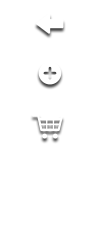
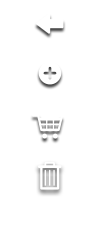
integrated product delete

Changed region(s): [[0.36, 0.6708, 0.63, 0.8167]]

diff --git a/www/style.less b/www/style.less
@@ -111,13 +111,23 @@ hr {
 }
 
 /*----------------------------------------------------------------
-	Views
+	Views / Shared
 ----------------------------------------------------------------*/
 
 .wrap {
 	padding: @margin @margin @margin*2;
 }
 
+.icon {
+	width: 30px;
+	height: 30px;
+	position: absolute;
+	left: 50%;
+	top: 50%;
+	margin-left: -15px;
+	margin-top: -15px;
+	background: url(img/icons.png?v=1.5) 50% -8px;
+}
 
 /*----------------------------------------------------------------
 	Components
@@ -139,7 +149,7 @@ hr {
 }
 
 .polaroid + .polaroid {
-	-webkit-transform: rotate(-1deg);
+	-webkit-transform: rotate(-1.5deg);
 	z-index: 3;
 }
 
@@ -217,6 +227,7 @@ hr {
 	width: 100px;
 	padding: 4px;
 	float: none;
+	height: auto;
 }
 
 .polaroid.micro .inner {
@@ -264,6 +275,13 @@ hr {
 
 .total-label {
 	text-align: center;
+}
+
+.cart-item button {
+	position: absolute !important;
+	right: 0px;
+	top: 10px;
+/*	background: transparent !important;*/
 }
 
 
@@ -315,23 +333,16 @@ button.large.text {
 	padding: 0 10px;
 }
 
-button .icon, .icon {
-	width: 30px;
-	height: 30px;
-	position: absolute;
-	left: 50%;
-	top: 50%;
-	margin-left: -15px;
-	margin-top: -15px;
-	background: url(img/icons.png?v=1.3) 50% -8px;
-}
-
 button.large.add-cart .icon {
 	background-position: 50% -58px;
 }
 
 button.large.show-cart .icon {
-	background-position: 50% -109px;
+	background-position: 50% -110px;
+}
+
+.icon.trash {
+	background-position: 50% -160px;
 }
 
 button.large:active {

diff --git a/www/js/app.js b/www/js/app.js
@@ -171,13 +171,27 @@ var app = {
 		
 		var total = shopify.total();
 		var products = shopify.listCart();
+		// console.log(products, products.length)
+		for (var i = 0; i < products.length; i++) {
+			products[i].index = i;
+			// console.log(i)
+		}
+		// console.log(products)
+		
+		
 		var data = {products:products, item_count:products.length, total:total};
 		app.renderView('cart', data);
 		
 		$('.back').click( app.showMainView );
 		$('.checkout').click( function(e){
-				console.log('checking out');
-				shopify.checkout();
+			console.log('checking out');
+			shopify.checkout();
 		} );
+		$('.cart-item button').click( function(e) {
+			var uid = $(this).attr('data-id');
+			console.log(uid)
+			shopify.removeFromCart(uid);
+			app.showCartView();
+		});
 	}
 };

diff --git a/www/tmpl-cart.html b/www/tmpl-cart.html
@@ -7,13 +7,13 @@
     
     {{#products}}
     
-    <div class="cart-item">
+    <div class="cart-item" id="{{id}}">
         <div class="cart-label">
             <label>by {{vendor}}</label>
             <label>{{#variants}}${{price}}{{/variants}}</label>
         </div>
     
-        <div class="polaroid mini micro" data-id="{{id}}">
+        <div class="polaroid mini micro">
             <div class="inner">
                 <div class="mask"></div>
                 {{#images}}
@@ -21,6 +21,9 @@
                 {{/images}}
             </div>
         </div>
+        
+        <button class="large" data-id="{{index}}"><span class="icon trash"></span></button>
+        
     </div>
     
     <hr/>
